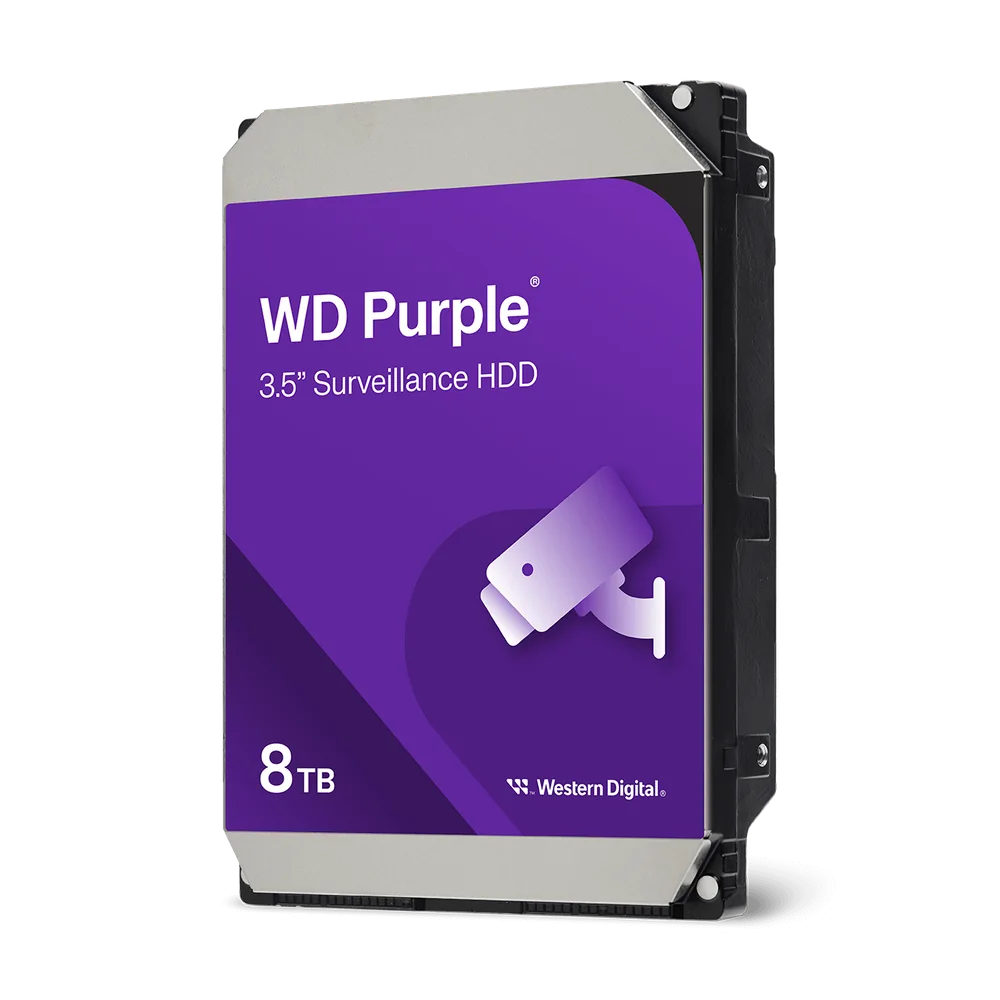
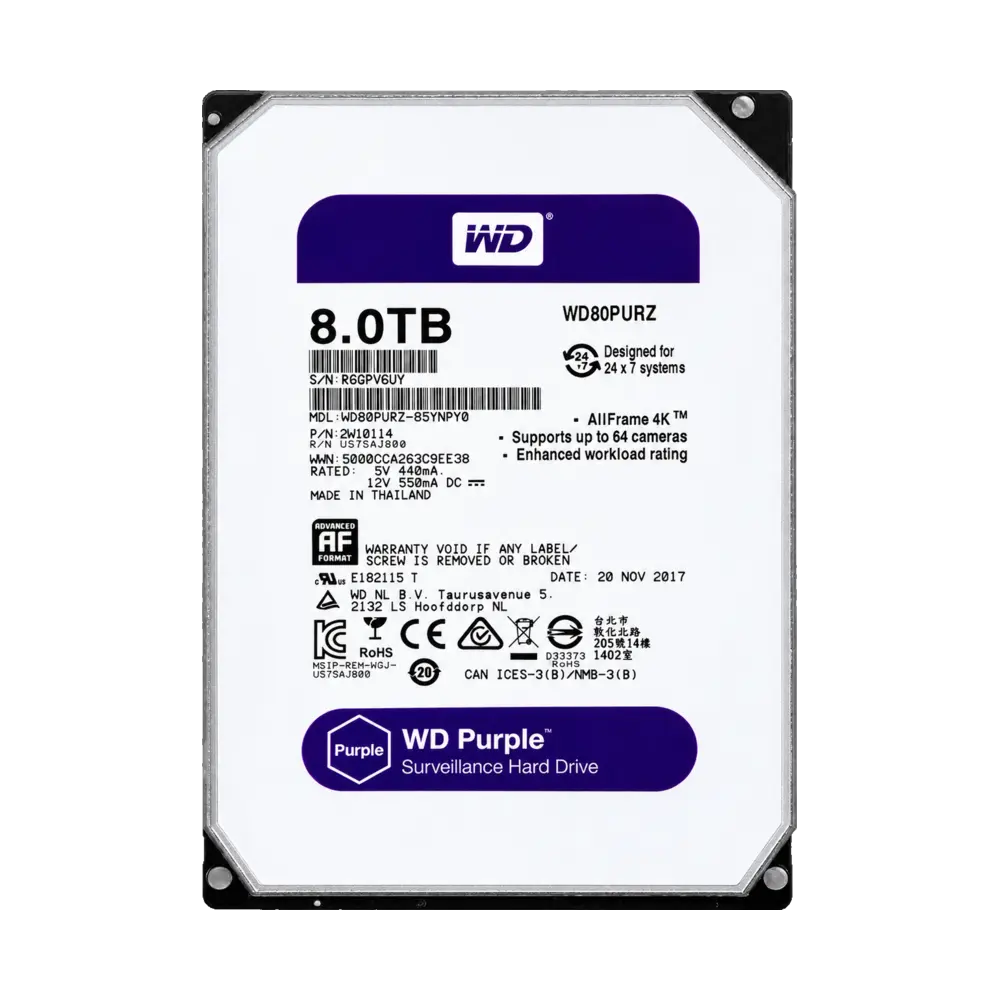
Replace WD Purple HDD photos

diff --git a/PROJECT_STATUS.md b/PROJECT_STATUS.md
@@ -1,6 +1,30 @@
 # PROJECT_STATUS.md — АКС current state
 
-Last updated: 2026-11-04
+Last updated: 2026-11-07
+
+## Замена фотографий всех WD Purple (2026-11-07)
+
+- Проверены все товары Western Digital Purple в каталоге HDD: `hdd-001` (1 TB), `hdd-002` (10 TB), `hdd-003` (14 TB), `hdd-004` (2 TB), `hdd-005` (8 TB), `hdd-006` (4 TB) и `hdd-007` (6 TB).
+- Заменены все 7 основных фотографий `main.webp`. Для каждого объёма использована отдельная реальная фотография физического HDD с металлическим корпусом и читаемой фиолетовой этикеткой WD Purple; общая фотография между моделями не использовалась.
+- Источники точных фотографий: FixPart (1 TB), Kaspi (2 TB), Sofmap/Recole (4 TB), Yandex Market (6 TB), eBay (8 TB), Noon (10 TB) и GuvenlikBayii (14 TB). Для 10 TB и 14 TB соответствие объёма и модели дополнительно проверено по надписи на этикетке (`WD101PURZ` и `WD140PURZ`).
+- Все файлы пересохранены локально в WebP 1000×1000 с прозрачным фоном, центрированием и одинаковой визуальной высотой диска. Коробки, рекламные элементы, водяные знаки, нарисованные камеры и искусственные тени не подключались.
+- Пути в `products.json` и `rgw_page_hdd.html` сохранены без изменений: универсальная страница товара продолжает использовать локальный `images/products/hdd-00X/main.webp`. Цены, названия, объёмы, характеристики, ID, SKU, фильтры, сортировка, `price.csv`, JavaScript и фотографии других HDD/SSD не изменялись.
+
+### Проверки этапа
+
+- Проверены 7 физических файлов: формат WebP, размер 1000×1000, наличие alpha-канала и неполная непрозрачность холста.
+- Визуально проверены все 7 дисков: на этикетках видны соответствующие объёмы 1/2/4/6/8/10/14 TB; изображения не содержат прежнюю иконку камеры.
+- Проверены записи `products.json`, карточки `rgw_page_hdd.html` и локальные пути галереи; дополнительных старых изображений WD Purple в массивах `images` нет.
+- Для пользовательской визуальной проверки отдельно рекомендованы `hdd-002` (10 TB, фотография бывшего в употреблении диска) и `hdd-003` (14 TB, ракурс под углом); технических ошибок загрузки не обнаружено.
+
+Источники фотографий:
+- 1 TB: https://fixpart.nl/product/western-digital-wd10purz-sata-lii-harde-schijf-35
+- 2 TB: https://kaspi.kz/shop/p/hdd-western-digital-purple-wd20purz-2000-gb-6800681/
+- 4 TB: https://used.sofmap.com/r/item/2133055806827
+- 6 TB: https://market.yandex.ru/product--zhestkii-disk-western-digital-wd-red-pro-6-tb-wd6003ffbx/1779564919?sku=47419712&uniqueId=1067033
+- 8 TB: https://www.ebay.com/itm/226918855457
+- 10 TB: https://www.noon.com/egypt-en/wd101purz-10tb-7200-rpm-256mb-cache-sata-6-0gb-s-3-5-internal-hard-drive-purple/N47701100A/p/
+- 14 TB: https://www.guvenlikbayii.com/image/cache/data/urunler/hard-disk/wd14tbdiskfiyat-600x600.jpg
 
 ## Обработка фотографий мониторов Redmi (2026-11-04)
 
